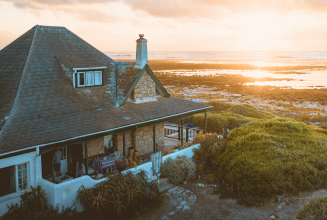
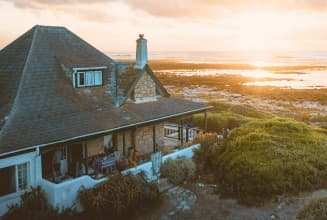
Updates

diff --git a/index.html b/index.html
@@ -80,12 +80,14 @@
       <ul class="promo__slides">
         <li class="promo__slide">
           <picture class="promo__picture">
-            <img class="promo__image" src="img/desktop/slide.jpg" width="795" height="496" alt="Дом для отдыха на пустой местности с постриженным газоном">
+            <source type="image/webp" srcset="img/desktop/slide.webp 1x, img/desktop/slide@2x.webp 2x">
+            <img class="promo__image" src="img/desktop/slide.jpg" srcset="img/desktop/slide@2x.jpg 2x" width="795" height="496" alt="Дом для отдыха на пустой местности с постриженным газоном">
           </picture>
         </li>
         <li class="promo__slide">
           <picture class="promo__picture">
-            <img class="promo__image" src="img/desktop/slide.jpg" width="795" height="496" alt="Дом для отдыха на пустой местности с постриженным газоном">
+            <source type="image/webp" srcset="img/desktop/slide.webp 1x, img/desktop/slide@2x.webp 2x">
+            <img class="promo__image" src="img/desktop/slide.jpg" srcset="img/desktop/slide@2x.jpg 2x" width="795" height="496" alt="Дом для отдыха на пустой местности с постриженным газоном">
           </picture>
         </li>
       </ul>
@@ -128,13 +130,15 @@
       <p class="article__text article__text--first">Отдохните в уютных деревянных домах с камином, сауной и джакузи, расположенных на берегу озера. Для любителей полного уединения есть домики и&nbsp;в&nbsp;глубине парка, в окружении вековых деревьев.</p>
 
       <picture class="article__picture article__picture--first">
-        <img class="article__image" src="img/desktop/image1.jpg" width="444" height="280" alt="Укрытый снегом дом">
+        <source type="image/webp" srcset="img/desktop/image1.webp 1x, img/desktop/image1@2x.webp 2x">
+        <img class="article__image" src="img/desktop/image1.jpg" srcset="img/desktop/image1@2x.jpg 2x" width="444" height="280" alt="Укрытый снегом дом">
       </picture>
 
       <p class="article__text article__text--second">На территории парка есть баскетбольная площадка, собственный пляж с сеткой для волейбола, прокат горных велосипедов и лодок. А зимой у нас можно взять в прокат лыжи или снегоходы и кататься по специально оборудованным трассам. Для каждого посетителя составляем индивидуальную программу развлечений и помогаем её осуществить.</p>
 
       <picture class="article__picture article__picture--second">
-        <img class="article__image" src="img/desktop/image2.jpg" width="1146" height="280" alt="Укрытый снегом дом">
+        <source type="image/webp" srcset="img/desktop/image2.webp 1x, img/desktop/image2@2x.webp 2x">
+        <img class="article__image" src="img/desktop/image2.jpg" srcset="img/desktop/image2@2x.jpg 2x" width="1146" height="280" alt="Укрытый снегом дом">
       </picture>
 
       <p class="article__text article__text--third">Около каждого коттеджа есть детская площадка с качелями и горками, а на территории парка работает детская комната. Вы сможете позволить себе любой отдых зная, что ваш ребёнок находится под присмотром опытных специалистов.</p>
@@ -163,7 +167,8 @@
       <div class="rent__cards">
         <article class="rent__card">
           <picture class="rent__picture">
-            <img class="rent__image" src="img/desktop/card1.jpg" width="328" height="220" alt="Современный классический дом">
+            <source type="image/webp" srcset="img/desktop/card1.webp 1x, img/desktop/card1@2x.webp 2x">
+            <img class="rent__image" src="img/desktop/card1.jpg" srcset="img/desktop/card1@2x.jpg 2x" width="328" height="220" alt="Современный классический дом">
           </picture>
           <div class="rent__content">
             <h4 class="rent__card-title">Современная классика</h4>
@@ -186,7 +191,8 @@
         </article>
         <article class="rent__card">
           <picture class="rent__picture">
-            <img class="rent__image" src="img/desktop/card2.jpg" width="328" height="220" alt="Дом с чудесным видом на озеро">
+            <source type="image/webp" srcset="img/desktop/card2.webp 1x, img/desktop/card2@2x.webp 2x">
+            <img class="rent__image" src="img/desktop/card2.jpg" srcset="img/desktop/card2@2x.jpg 2x" width="328" height="220" alt="Дом с чудесным видом на озеро">
           </picture>
           <div class="rent__content">
             <h4 class="rent__card-title">Дом на берегу озера</h4>
@@ -209,7 +215,8 @@
         </article>
         <article class="rent__card">
           <picture class="rent__picture">
-            <img class="rent__image" src="img/desktop/card3.jpg" width="328" height="220" alt="Большой дом окруженный лесом">
+            <source type="image/webp" srcset="img/desktop/card3.webp 1x, img/desktop/card3@2x.webp 2x">
+            <img class="rent__image" src="img/desktop/card3.jpg" srcset="img/desktop/card3@2x.jpg 2x" width="328" height="220" alt="Большой дом окруженный лесом">
           </picture>
           <div class="rent__content">
             <h4 class="rent__card-title">Особняк в лесу</h4>
@@ -232,7 +239,8 @@
         </article>
         <article class="rent__card">
           <picture class="rent__picture">
-            <img class="rent__image" src="img/desktop/card4.jpg" width="328" height="220" alt="Уютный домик на дереве">
+            <source type="image/webp" srcset="img/desktop/card4.webp 1x, img/desktop/card4@2x.webp 2x">
+            <img class="rent__image" src="img/desktop/card4.jpg" srcset="img/desktop/card4@2x.jpg 2x" width="328" height="220" alt="Уютный домик на дереве">
           </picture>
           <div class="rent__content">
             <h4 class="rent__card-title">Домик на дереве</h4>
@@ -255,7 +263,8 @@
         </article>
         <article class="rent__card rent__card--hit">
           <picture class="rent__picture">
-            <img class="rent__image" src="img/desktop/card5.jpg" width="328" height="220" alt="Речной дом">
+            <source type="image/webp" srcset="img/desktop/card5.webp 1x, img/desktop/card5@2x.webp 2x">
+            <img class="rent__image" src="img/desktop/card5.jpg" srcset="img/desktop/card5@2x.jpg 2x" width="328" height="220" alt="Речной дом">
           </picture>
           <div class="rent__content">
             <h4 class="rent__card-title">Домик на дереве</h4>
@@ -346,7 +355,8 @@
         </div>
 
         <picture class="feedback__picture">
-          <img class="feedback__image" src="img/desktop/boat.jpg" width="678" height="737" alt="Лодка в центре озера">
+          <source type="image/webp" srcset="img/desktop/boat.webp 1x, img/desktop/boat@2x.webp 2x">
+          <img class="feedback__image" src="img/desktop/boat.jpg" srcset="img/desktop/boat@2x.jpg 2x" width="678" height="737" alt="Лодка в центре озера">
         </picture>
     </div>
     </section>
